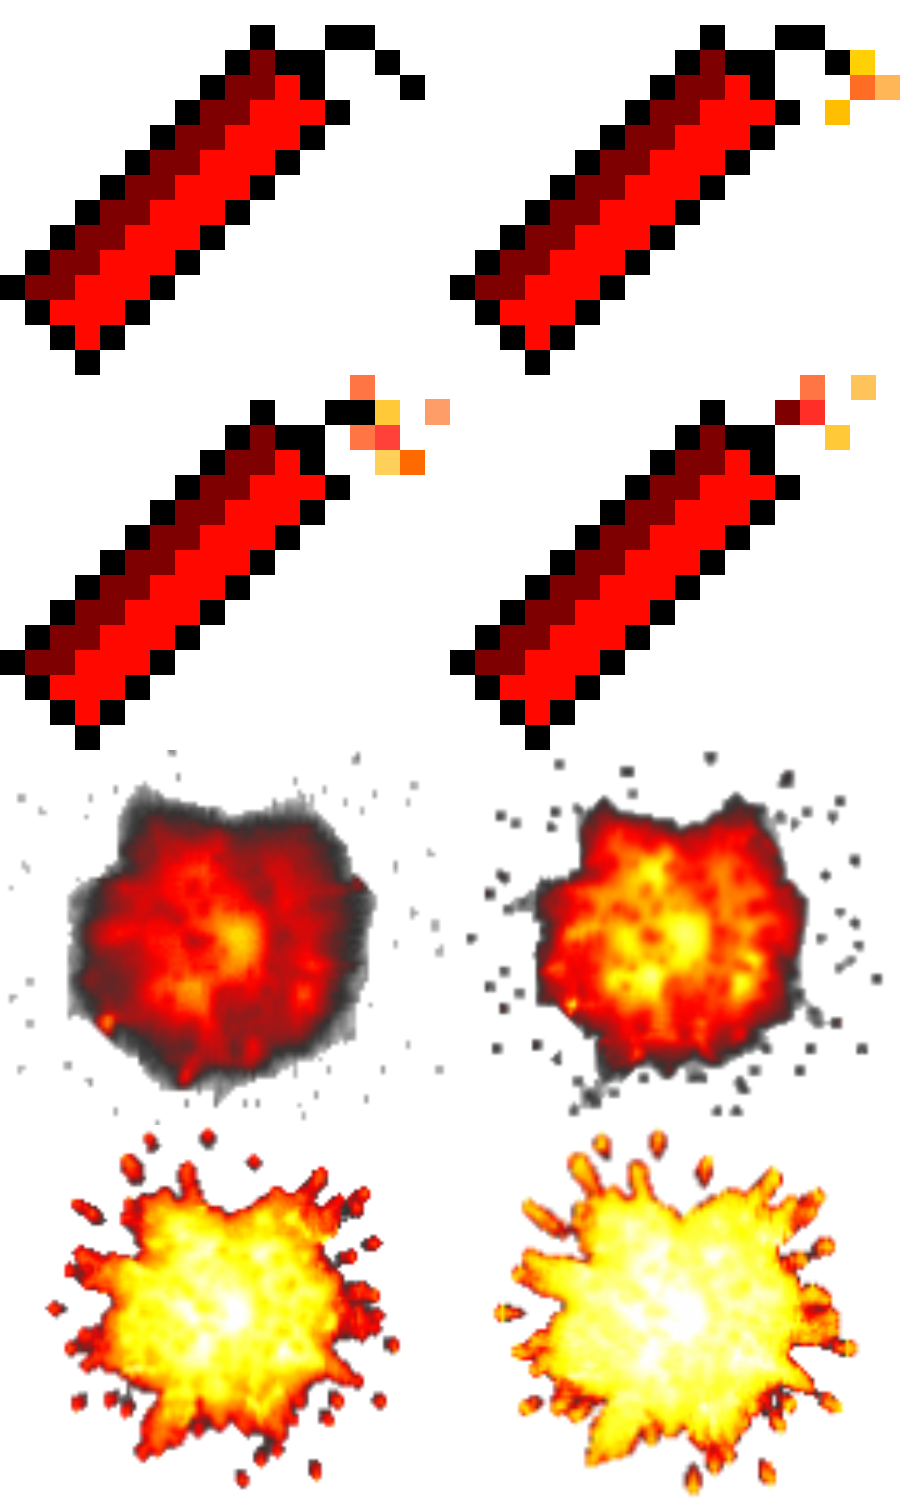
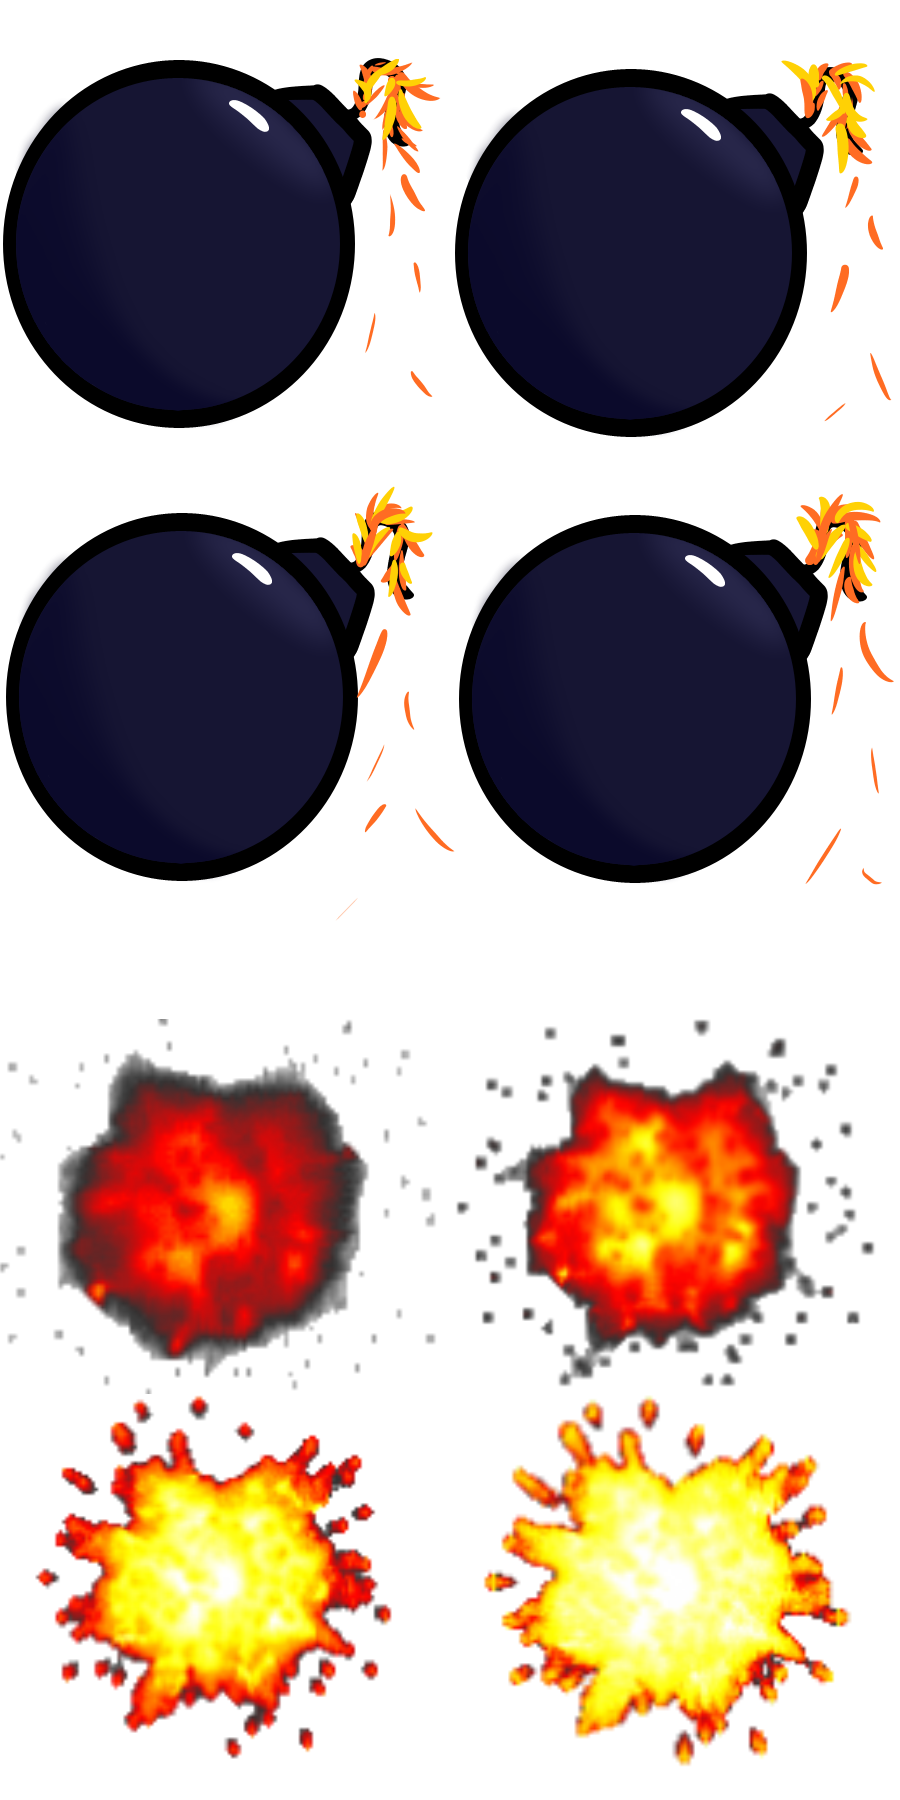
Removed unused textures, changed character, profile and bomb textures, changed some numbers for spritesheet cutting

diff --git a/sources/player.cpp b/sources/player.cpp
@@ -22,35 +22,36 @@ Player::Player(
     placeBomb{true}
 {
     playerUpAnimationIterator = 0;
-    playerUpAnimationRects.emplace_back(32, 96, 32, 32);//these dimentions are here to cut out the sprites form the spritesheet
-    playerUpAnimationRects.emplace_back(64, 96, 32, 32);
-    playerUpAnimationRects.emplace_back(32, 96, 32, 32);
-    playerUpAnimationRects.emplace_back(0, 96, 32, 32);
+    int frameSize = 100;
+    playerUpAnimationRects.emplace_back(100, 300, frameSize, frameSize);//these dimentions are here to cut out the sprites form the spritesheet
+    playerUpAnimationRects.emplace_back(200, 300, frameSize, frameSize);
+    playerUpAnimationRects.emplace_back(100, 300, frameSize, frameSize);
+    playerUpAnimationRects.emplace_back(0, 300, frameSize, frameSize);
     
     playerDownAnimationIterator = 0;
-    playerDownAnimationRects.emplace_back(32, 0, 32, 32);//these dimentions are here to cut out the sprites form the spritesheet
-    playerDownAnimationRects.emplace_back(64, 0, 32, 32);
-    playerDownAnimationRects.emplace_back(32, 0, 32, 32);
-    playerDownAnimationRects.emplace_back(0, 0, 32, 32);
+    playerDownAnimationRects.emplace_back(100, 0, frameSize, frameSize);//these dimentions are here to cut out the sprites form the spritesheet
+    playerDownAnimationRects.emplace_back(200, 0, frameSize, frameSize);
+    playerDownAnimationRects.emplace_back(100, 0, frameSize, frameSize);
+    playerDownAnimationRects.emplace_back(0, 0, frameSize, frameSize);
 
     playerLeftAnimationIterator = 0;
-    playerLeftAnimationRects.emplace_back(32, 32, 32, 32);//these dimentions are here to cut out the sprites form the spritesheet
-    playerLeftAnimationRects.emplace_back(64, 32, 32, 32);
-    playerLeftAnimationRects.emplace_back(32, 32, 32, 32);
-    playerLeftAnimationRects.emplace_back(0, 32, 32, 32);
+    playerLeftAnimationRects.emplace_back(100, 100, frameSize, frameSize);//these dimentions are here to cut out the sprites form the spritesheet
+    playerLeftAnimationRects.emplace_back(200, 100, frameSize, frameSize);
+    playerLeftAnimationRects.emplace_back(100, 100, frameSize, frameSize);
+    playerLeftAnimationRects.emplace_back(0, 100, frameSize, frameSize);
     
     playerRightAnimationIterator = 0;
-    playerRightAnimationRects.emplace_back(32, 64, 32, 32);//these dimentions are here to cut out the sprites form the spritesheet
-    playerRightAnimationRects.emplace_back(64, 64, 32, 32);
-    playerRightAnimationRects.emplace_back(32, 64, 32, 32);
-    playerRightAnimationRects.emplace_back(0, 64, 32, 32);
+    playerRightAnimationRects.emplace_back(100, 200, frameSize, frameSize);//these dimentions are here to cut out the sprites form the spritesheet
+    playerRightAnimationRects.emplace_back(200, 200, frameSize, frameSize);
+    playerRightAnimationRects.emplace_back(100, 200, frameSize, frameSize);
+    playerRightAnimationRects.emplace_back(0, 200, frameSize, frameSize);
 
     playerSprite.setTexture(gameData->assetManager.getTexture(textureName));
     playerSprite.setTextureRect(playerDownAnimationRects.at(playerDownAnimationIterator));
     auto tileSize = gameData->tileMap.getTileMapSize().x / gameData->tileMap.getMapSize().x;
     playerSprite.setScale(
-        tileSize / gameData->assetManager.getTexture(textureName).getSize().x *1.5,
-        tileSize / gameData->assetManager.getTexture(textureName).getSize().y *2    
+        tileSize / gameData->assetManager.getTexture(textureName).getSize().x *2,
+        tileSize / gameData->assetManager.getTexture(textureName).getSize().y *2.5    
     );
     playerSprite.setOrigin(
         gameData->assetManager.getTexture(textureName).getSize().x / 6, 

diff --git a/sources/bomb.cpp b/sources/bomb.cpp
@@ -20,26 +20,26 @@ Bomb::Bomb(
     auto tileSize = data->tileMap.getTileMapSize().x / data->tileMap.getMapSize().x;
     
     bombFuseAnimationIterator = 0;
-    bombFuseAnimationRects.emplace_back(0, 0, 450, 375);//these dimentions are here to cut out the sprites form the spritesheet
-    bombFuseAnimationRects.emplace_back(450, 0, 450, 375);
-    bombFuseAnimationRects.emplace_back(0, 375, 450, 375);
-    bombFuseAnimationRects.emplace_back(450, 375, 450, 375);
+    bombFuseAnimationRects.emplace_back(0, 0, 450, 450);//these dimentions are here to cut out the sprites form the spritesheet
+    bombFuseAnimationRects.emplace_back(450, 0, 450, 450);
+    bombFuseAnimationRects.emplace_back(0, 450, 450, 450);
+    bombFuseAnimationRects.emplace_back(450, 450, 450, 450);
 
     bombExplosionAnimationIterator = 0;
-    bombExplosionAnimationRects.emplace_back(0, 750, 450, 375);//these dimentions are here to cut out the sprites form the spritesheet
-    bombExplosionAnimationRects.emplace_back(450, 750, 450, 375);
-    bombExplosionAnimationRects.emplace_back(0, 1125, 450, 375);
-    bombExplosionAnimationRects.emplace_back(450, 1125, 450, 375);
+    bombExplosionAnimationRects.emplace_back(0, 900, 450, 450);//these dimentions are here to cut out the sprites form the spritesheet
+    bombExplosionAnimationRects.emplace_back(450, 900, 450, 450);
+    bombExplosionAnimationRects.emplace_back(0, 1350, 450, 450);
+    bombExplosionAnimationRects.emplace_back(450, 1350, 450, 450);
 
     bombSprite.setTexture(data->assetManager.getTexture("bomb spritesheet"));
     bombSprite.setTextureRect(bombFuseAnimationRects.at(bombFuseAnimationIterator));
     bombSprite.setScale(
-        tileSize / data->assetManager.getTexture("bomb spritesheet").getSize().x*2,// *2 because the spritesheet is 2 sprites wide 
-        tileSize / data->assetManager.getTexture("bomb spritesheet").getSize().y*4 // *4 because the spritesheet is 4 sprites long 
+        tileSize / data->assetManager.getTexture("bomb spritesheet").getSize().x*1.5,// These numbers are to make the bomb a nice size ingame
+        tileSize / data->assetManager.getTexture("bomb spritesheet").getSize().y*3 //  ^
     );
     bombSprite.setOrigin(
-        data->assetManager.getTexture("bomb spritesheet").getSize().x / 4, // /4 becuase the sprietheet is 2 sprited wide and another /2 to get the centre of the sprite
-        data->assetManager.getTexture("bomb spritesheet").getSize().y / 8  // /8 becuase the sprietheet is 4 sprited long and another /2 to get the centre of the sprite
+        data->assetManager.getTexture("bomb spritesheet").getSize().x / 4, // /4 becuase the spritesheet is 2 sprites wide and another /2 to get the centre of the sprite
+        data->assetManager.getTexture("bomb spritesheet").getSize().y / 8  // /8 becuase the spritesheet is 4 sprites long and another /2 to get the centre of the sprite
     );
     setPos(pos);
 }
